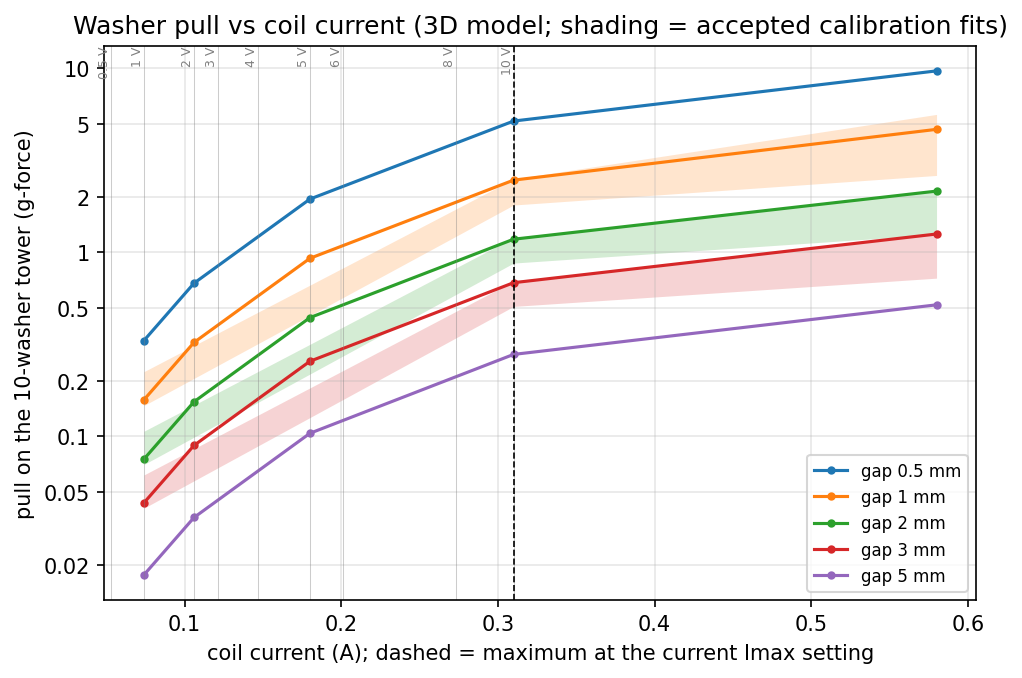
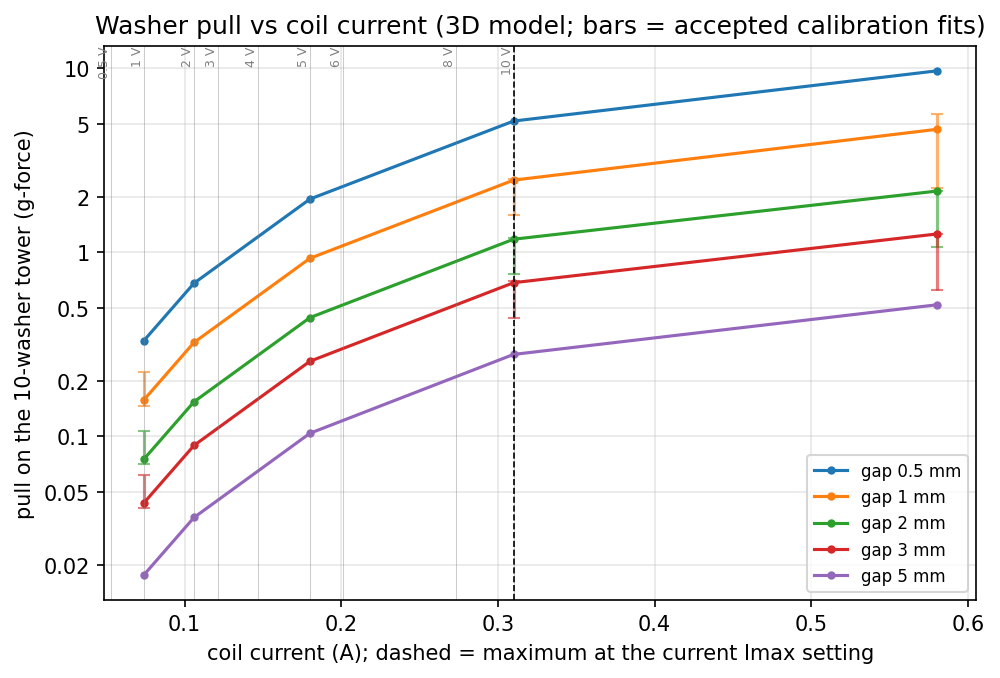
Rename the result files into femm/ and fea3d/ folders, add the 3D calibration band and finish the sweep.

diff --git a/simulations/ledex_femm/plot_results.py b/simulations/ledex_femm/plot_results.py
@@ -4,9 +4,9 @@
     python plot_results.py --show     # also opens the figures
 
 Force and field figures come from the 3D model (washer tower standing across the axis):
-results/fea3d.csv and results/fea3d_sweep.csv (sweep3d.py) and results/axial_B3d.csv.
+results/fea3d/ (force_*_3d.csv from sweep3d.py and field_along_plunger_edge_no_target_3d.csv).
 calibration_fit.png and sensitivity.png stay on the 2D FEMM model: results/calibration/ and
-results/sweeps.csv. results/uncalibrated/ is the first model, kept for the record (not plotted).
+results/femm/femm_sweeps.csv. results/femm/uncalibrated_first_model/ is the first model, kept for the record (not plotted).
 """
 import argparse
 import csv
@@ -50,7 +50,7 @@ def read_csv(path, num=None):
     return rows
 
 
-def load_sweeps(path=os.path.join(RES, "sweeps.csv")):
+def load_sweeps(path=os.path.join(RES, "femm", "femm_sweeps.csv")):
     return read_csv(path, ["target_id_mm", "target_od_mm", "target_t_mm", "protrude_mm", "seat_mm",
                            "stroke_mm", "target_mesh_mm", "gap_mm", "current_A", "target_force_N",
                            "target_force_g", "plunger_force_N"])
@@ -151,12 +151,12 @@ LBL10 = "pull on the 10-washer tower (g-force)"
 def load3d():
     """3D results (washer tower across the axis): {(set, n, gap, stroke, current): force_g}."""
     d = {}
-    old = os.path.join(RES, "fea3d.csv")
+    old = os.path.join(RES, "fea3d", "force_first_runs_3d.csv")
     if os.path.exists(old):
         for r in read_csv(old):
             if r["kind"] == "across":
                 d[("best", int(r["n_washers"]), r["gap_mm"], 0.0, round(r["current_A"], 3))] = r["force_g"]
-    path = os.path.join(RES, "fea3d_sweep.csv")
+    path = os.path.join(RES, "fea3d", "force_sweep_3d.csv")
     if os.path.exists(path):
         for r in read_csv(path):
             s = r["set"] if isinstance(r["set"], str) else "%d" % r["set"]
@@ -204,9 +204,10 @@ def plot_force_vs_current(d):
         a, f = zip(*pts)
         line, = ax.plot(a, f, "o-", ms=3, label="gap {:g} mm".format(g))
         ba = [x for x in (0.074, 0.310, 0.580) if band3d(d, g, x)]
-        if len(ba) > 1:
-            ax.fill_between(ba, [band3d(d, g, x)[0] for x in ba], [band3d(d, g, x)[1] for x in ba],
-                            color=line.get_color(), alpha=0.2, lw=0)
+        if ba:
+            lo, hi = zip(*[band3d(d, g, x) for x in ba])
+            ax.errorbar(ba, [(l + h) / 2 for l, h in zip(lo, hi)], yerr=[[(h - l) / 2 for l, h in zip(lo, hi)]] * 2,
+                        fmt="none", ecolor=line.get_color(), capsize=3, lw=1.5, alpha=0.6)
     for a, v in COMMAND_V.items():
         ax.axvline(a, color="grey", lw=0.5, alpha=0.4)
         ax.text(a, 1.0, "{:g} V".format(v), transform=matplotlib.transforms.blended_transform_factory(ax.transData, ax.transAxes),
@@ -215,7 +216,7 @@ def plot_force_vs_current(d):
     ax.set_yscale("log")
     ax.set_xlabel("coil current (A); dashed = maximum at the current Imax setting")
     ax.set_ylabel(LBL10)
-    ax.set_title("Washer pull vs coil current (3D model; shading = accepted calibration fits)")
+    ax.set_title("Washer pull vs coil current (3D model; bars = accepted calibration fits)")
     ax.grid(True, which="both", alpha=0.3)
     ax.legend(fontsize=8)
     save(fig, "force_vs_current.png")
@@ -273,9 +274,10 @@ def plot_target_band(d):
     fig, axes = plt.subplots(1, 3, figsize=(13, 4.2), sharey=True)
     for ax, g in zip(axes, [1.0, 2.0, 3.0]):
         ba = [x for x in (0.074, 0.310, 0.580) if band3d(d, g, x)]
-        if len(ba) > 1:
-            ax.fill_between(ba, [band3d(d, g, a)[0] for a in ba], [band3d(d, g, a)[1] for a in ba],
-                            color="C0", alpha=0.25, lw=0, label="accepted fits (range)")
+        if ba:
+            lo, hi = zip(*[band3d(d, g, a) for a in ba])
+            ax.errorbar(ba, [(l + h) / 2 for l, h in zip(lo, hi)], yerr=[[(h - l) / 2 for l, h in zip(lo, hi)]] * 2,
+                        fmt="none", ecolor="C0", capsize=4, lw=2, alpha=0.5, label="accepted fits (range)")
         a, f = zip(*sorted((k[4], v) for k, v in d.items() if k[0] == "best" and k[1] == 10 and k[2] == g and k[3] == 0))
         ax.plot(a, f, "o-", color="C0", ms=3, label="best fit")
         ax.set_title("gap {:g} mm".format(g))
@@ -284,12 +286,14 @@ def plot_target_band(d):
         ax.grid(True, which="both", alpha=0.3)
     axes[0].set_ylabel(LBL10)
     axes[0].legend(fontsize=7)
-    fig.suptitle("Washer pull with the calibration uncertainty (3D model, 16 accepted calibration sets)")
+    nsets = len({k[0] for k in d if k[1] == 10 and k[2] == 2.0 and k[4] == 0.31 and k[3] == 0})
+    fig.suptitle("Washer pull with the calibration uncertainty (3D model, best fit + {} other accepted calibration sets)"
+                 .format(nsets - 1))
     save(fig, "target_force_band.png")
 
 
 def plot_axial_profile():
-    path = os.path.join(RES, "axial_B3d.csv")
+    path = os.path.join(RES, "fea3d", "field_along_plunger_edge_no_target_3d.csv")
     if not os.path.exists(path):
         return
     rows = read_csv(path)

diff --git a/simulations/ledex_femm/femm_run.py b/simulations/ledex_femm/femm_run.py
@@ -3,8 +3,8 @@
 Stdlib only, Python 3.6+. One FEMM session per job; jobs run in parallel, each writing its own
 temporary CSV, which is merged afterwards (a crash loses at most one job).
 
-    python femm_run.py sweeps [--only REGEX] [--no-grids]   # results/sweeps.csv + results/fieldgrid_*.csv
-    python femm_run.py summary                              # results/forces.csv, stroke.csv, axial_B.csv
+    python femm_run.py sweeps [--only REGEX] [--no-grids]   # results/femm/femm_sweeps.csv + femm_fieldgrid_*.csv
+    python femm_run.py summary                              # results/femm/femm_forces_5washers_coaxial.csv, femm_stroke_..., femm_field_along_plunger_edge_...
     python femm_run.py maps                                 # FEMM screenshots in figures/femm/
 
 FEMM location: C:\\femm42\\bin\\femm.exe on Windows. Elsewhere set FEMM_WINE (path to the wine
@@ -24,7 +24,7 @@ from concurrent.futures import ThreadPoolExecutor
 
 HERE = os.path.dirname(os.path.abspath(__file__))
 MAIN = os.path.join(HERE, "ledex_washer.lua")
-RES = os.path.join(HERE, "results")
+RES = os.path.join(HERE, "results", "femm")
 FEMM_DIR = os.path.join(HERE, "figures", "femm")
 WINDOWS = sys.platform.startswith("win")
 
@@ -176,7 +176,7 @@ def sweep_jobs(over=None):
 
 
 def run_sweeps(only=".*", grids=True, over=None, outfile=None):
-    outfile = outfile or os.path.join(RES, "sweeps.csv")
+    outfile = outfile or os.path.join(RES, "femm_sweeps.csv")
     jobs = [j for j in sweep_jobs(over) if re.search(only, j[0])]
     with ThreadPoolExecutor(WORKERS) as ex:
         parts = list(ex.map(lambda j: sweep_job(*j), jobs))
@@ -192,12 +192,12 @@ def run_sweeps(only=".*", grids=True, over=None, outfile=None):
         return
     grid_jobs = []
     for a in AMPS_KEY:
-        grid_jobs.append((-1, a, "fieldgrid_notarget_{:.3f}A".format(a)))
-        grid_jobs.append((2, a, "fieldgrid_washers5_gap2mm_{:.3f}A".format(a)))
+        grid_jobs.append((-1, a, "femm_fieldgrid_nowasher_{:.3f}A".format(a)))
+        grid_jobs.append((2, a, "femm_fieldgrid_washers5_coaxial_gap2mm_{:.3f}A".format(a)))
     for a in [0.310, 0.58]:
-        grid_jobs.append((1, a, "fieldgrid_washers5_gap1mm_{:.3f}A".format(a)))
+        grid_jobs.append((1, a, "femm_fieldgrid_washers5_coaxial_gap1mm_{:.3f}A".format(a)))
     for a in [0.074, 0.310, 0.58]:   # ten-washer stack (8 mm), the planned rig target
-        grid_jobs.append((2, a, "fieldgrid_washers10_gap2mm_{:.3f}A".format(a), dict(WT=8.0)))
+        grid_jobs.append((2, a, "femm_fieldgrid_washers10_coaxial_gap2mm_{:.3f}A".format(a), dict(WT=8.0)))
     grid_jobs = [j for j in grid_jobs if re.search(only, j[2])]
     with ThreadPoolExecutor(WORKERS) as ex:
         list(ex.map(lambda j: fieldgrid_job(j[0], j[1], os.path.join(RES, j[2] + ".csv"),
@@ -208,7 +208,7 @@ def run_summary(over=None):
     jobs = [dict(over or {}, MODE=m) for m in ("forces", "profile", "stroke")]
     with ThreadPoolExecutor(3) as ex:
         list(ex.map(lambda g: run_lua(g, g["MODE"]), jobs))
-    print("wrote results/forces.csv, axial_B.csv, stroke.csv")
+    print("wrote results/femm/femm_forces_5washers_coaxial.csv, femm_field_along_plunger_edge_no_target.csv, femm_stroke_5washers_coaxial.csv")
 
 
 def run_maps(over=None):

diff --git a/simulations/ledex_femm/sweep3d.py b/simulations/ledex_femm/sweep3d.py
@@ -3,9 +3,9 @@
 Run with the NGSolve venv:  /tmp/ngenv/bin/python sweep3d.py [group ...]
 Groups: grid (gap and current, 10 washers), stacks (stack height), stroke (plunger held out),
 band (the accepted calibration sets, for the uncertainty band), axial (|B| along the plunger edge).
-Results are appended to results/fea3d_sweep.csv (set,n_washers,gap_mm,stroke_mm,current_A,force_g);
+Results are appended to results/fea3d/force_sweep_3d.csv (set,n_washers,gap_mm,stroke_mm,current_A,force_g);
 set 'best' is the fitted model, others are accepted calibration sets (their FEMM eval number).
-Jobs already in the file (or in the older results/fea3d.csv, best set, no stroke) are skipped.
+Jobs already in the file (or in the older results/fea3d/force_first_runs_3d.csv, best set, no stroke) are skipped.
 """
 import csv
 import os
@@ -17,7 +17,7 @@ import numpy as np
 import fea3d
 
 HERE = os.path.dirname(os.path.abspath(__file__))
-OUT = os.path.join(HERE, "results", "fea3d_sweep.csv")
+OUT = os.path.join(HERE, "results", "fea3d", "force_sweep_3d.csv")
 CURRENTS = [0.074, 0.106, 0.180, 0.310, 0.580]
 GAPS = [0.5, 1.0, 2.0, 3.0, 5.0]
 
@@ -28,7 +28,7 @@ def key(s, n, g, st, i):
 
 def done_jobs():
     d = {}
-    old = os.path.join(HERE, "results", "fea3d.csv")
+    old = os.path.join(HERE, "results", "fea3d", "force_first_runs_3d.csv")
     if os.path.exists(old):
         for r in csv.DictReader(open(old)):
             if r["kind"] == "across":
@@ -105,7 +105,7 @@ def run_group(group, budget_s):
 def axial():
     """|B| along the plunger outer edge (r = RP, plane x = 0) in front of the tip, no target."""
     p = fea3d.fitted()
-    out = os.path.join(HERE, "results", "axial_B3d.csv")
+    out = os.path.join(HERE, "results", "fea3d", "field_along_plunger_edge_no_target_3d.csv")
     zs = np.arange(0.0, 40.01, 0.25)
     rows = []
     for i in CURRENTS:
@@ -130,7 +130,7 @@ if __name__ == "__main__":
     budget = float(next((a for a in sys.argv[1:] if a.replace(".", "").isdigit()), 1300))
     for g in groups:
         if g == "axial":
-            if not os.path.exists(os.path.join(HERE, "results", "axial_B3d.csv")):
+            if not os.path.exists(os.path.join(HERE, "results", "fea3d", "field_along_plunger_edge_no_target_3d.csv")):
                 axial()
         elif not run_group(g, budget):
             break

diff --git a/simulations/ledex_femm/fea3d.py b/simulations/ledex_femm/fea3d.py
@@ -11,7 +11,7 @@ on the target for either orientation:
 Setup (one time):  python3 -m venv /tmp/ngenv && /tmp/ngenv/bin/pip install ngsolve numpy scipy
 Run:               /tmp/ngenv/bin/python fea3d.py check         # axial stack vs FEMM
                    /tmp/ngenv/bin/python sweep3d.py             # the sweeps behind the figures (resumable)
-                   /tmp/ngenv/bin/python fea3d.py across        # first across/axial sweep, results/fea3d.csv
+                   /tmp/ngenv/bin/python fea3d.py across        # first across/axial sweep, results/fea3d/force_first_runs_3d.csv
 
 Method: A-formulation (H(curl), order 2, no gradients), quarter model (the field is tangent to the two
 mirror planes and to the outer box, so A x n = 0 on all of them), Picard iteration on the element-wise
@@ -242,7 +242,7 @@ def run(kind, n, gap, amps, p=None, **kw):
 if __name__ == "__main__":
     mode = sys.argv[1] if len(sys.argv) > 1 else "check"
     if mode == "across":
-        out = os.path.join(HERE, "results", "fea3d.csv")
+        out = os.path.join(HERE, "results", "fea3d", "force_first_runs_3d.csv")
         done = set()
         if os.path.exists(out):
             done = set(tuple(l.split(",")[:4]) for l in open(out).read().splitlines()[1:])

diff --git a/simulations/ledex_femm/plot_target_across.py b/simulations/ledex_femm/plot_target_across.py
@@ -3,7 +3,7 @@
 Run with the NGSolve venv:  /tmp/ngenv/bin/python plot_target_across.py [current_A ...]
 Writes figures/magnetic_fields/: notarget_<I>A.png, target_gap{1,2,3}mm_<I>A.png (ten washers, rim 1/2/3 mm
 from the tip) and overview_magnetic_fields.png (4 rows x 5 currents; only when no currents are given).
-Default currents: 0.074 0.106 0.180 0.310 0.580 A. Solved fields are cached in results/fieldcache3d_*.npz.
+Default currents: 0.074 0.106 0.180 0.310 0.580 A. Solved fields are cached in results/fea3d/field_cut_3d_*.npz.
 """
 import os
 import sys
@@ -87,8 +87,8 @@ def draw(ax, xs, ys, mag, by, bz, a, tgt, gap=2.0):
 
 def solved(p, xs, ys, a, n, gap=2.0):
     """Field in the cut plane for n washers (0 = no target), cached on disk."""
-    path = os.path.join(HERE, "results", "fieldcache3d_{}_{:.3f}A.npz".format(
-        "notarget" if not n else "washers%d" % n + ("" if gap == 2.0 else "_gap%gmm" % gap), a))
+    case = "nowasher" if not n else "washers%d_across_gap%gmm" % (n, gap)
+    path = os.path.join(HERE, "results", "fea3d", "field_cut_3d_{}_{:.3f}A.npz".format(case, a))
     if os.path.exists(path):
         d = np.load(path)
         return d["mag"], d["by"], d["bz"], float(d["fz"]), d["tgt"]

diff --git a/simulations/ledex_femm/README.md b/simulations/ledex_femm/README.md
@@ -40,9 +40,11 @@ measurements.** Check them with one scale measurement once the printed holder an
 | 5 mm | 0.018 g | 0.036 g | 0.10 g | 0.28 g | 0.52 g |
 
 Pull on ten stacked M3 washers (3.2 × 9 × 0.8 mm, mild steel) standing across the axis, plunger
-seated; 1 g = 9.81 mN. Best-fit calibration; the spread over the accepted calibration sets is in
-`figures/plots/target_force_band.png`. (The earlier FEMM five-washer ring gave about 0.96 g at 2 mm
-and 10 V, in `results/sweeps.csv`; it is not the real layout.)
+seated; 1 g = 9.81 mN. Best-fit calibration. Range over the best fit and 13 other accepted calibration sets (two more could
+not be meshed), 1 / 2 / 3 mm: 10 V 1.6-2.5 / 0.76-1.2 / 0.44-0.70 g; 0.58 A 2.2-5.6 / 1.1-2.2 /
+0.62-1.3 g; 1 V 0.15-0.23 / 0.07-0.11 / 0.04-0.06 g. The best fit sits at the top of each range, so the
+true pull is more likely below it than above (`figures/plots/target_force_band.png`). (The earlier FEMM five-washer ring gave about 0.96 g at 2 mm
+and 10 V, in `results/femm/femm_sweeps.csv`; it is not the real layout.)
 
 ![target force band](figures/plots/target_force_band.png)
 
@@ -77,7 +79,7 @@ and 10 V, in `results/sweeps.csv`; it is not the real layout.)
 - Uncertainty band: 134 sets fit within 1.2× the best error (`accepted_sets.csv`; seat gap
   0.52–1.0 mm, clearance 0.68–0.8 mm, steel scale 0.82–1.05, plates 1.5–2.8 mm, wall 0.8–1.6 mm,
   cone 30–42°). The 3D target force of the ten-washer tower was recomputed for 16 well-spread ones
-  (`sweep3d.py band`, rows with a numeric `set` in `results/fea3d_sweep.csv`) and gives the bars and
+  (`sweep3d.py band`, rows with a numeric `set` in `results/fea3d/force_sweep_3d.csv`) and gives the bars and
   shading in `force_vs_gap.png`, `force_vs_current.png` and `target_force_band.png`.
 
 ![calibration fit](figures/plots/calibration_fit.png)
@@ -140,7 +142,7 @@ saturation at 0.58 A, plus the calibration extrapolation (±40 %).
   the calibrated values.
 - `femm_run.py`: runs FEMM in parallel on Windows or on a Mac under Wine (Python 3.6+, standard
   library only). `python3 femm_run.py sweeps` (all sweeps and field grids; `--only <regex>`,
-  `--no-grids`), `summary` (`results/forces.csv`, `axial_B.csv` (field along the plunger outer edge r = 3.91 mm, not the slotted axis), `stroke.csv`), `maps` (FEMM
+  `--no-grids`), `summary` (`results/femm/femm_forces_5washers_coaxial.csv`, `femm_field_along_plunger_edge_no_target.csv` (along the plunger outer edge r = 3.91 mm, not the slotted axis), `femm_stroke_5washers_coaxial.csv`), `maps` (FEMM
   screenshots in `figures/femm/`, needs Pillow for PNG). `FEMM_WORKERS` sets the number of
   parallel FEMM processes.
 - `calibrate.py`: the datasheet fit (`screen`, `refine`, `explore`, `best`, `band`, or `all`);
@@ -148,23 +150,23 @@ saturation at 0.58 A, plus the calibration extrapolation (±40 %).
   vs datasheet per point, `best_params.json`, `accepted_sets.csv`, `target_band.csv`).
 - `fea3d.py`: the 3D model (see above); `python fea3d.py check` compares a coaxial stack with FEMM.
 - `sweep3d.py`: resumable 3D sweeps (`grid`, `stacks`, `stroke`, `band`, `axial`) written to
-  `results/fea3d_sweep.csv` (`set`, `n_washers`, `gap_mm`, `stroke_mm`, `current_A`, `force_g`; `set`
-  = `best` or the FEMM eval number of an accepted calibration set) and `results/axial_B3d.csv`.
-  Older `results/fea3d.csv` holds the first across-axis runs (best fit only).
+  `results/fea3d/force_sweep_3d.csv` (`set`, `n_washers`, `gap_mm`, `stroke_mm`, `current_A`, `force_g`; `set`
+  = `best` or the FEMM eval number of an accepted calibration set) and `results/fea3d/field_along_plunger_edge_no_target_3d.csv`.
+  Older `results/fea3d/force_first_runs_3d.csv` holds the first across-axis and coaxial runs (best fit only).
 - `plot_results.py`: makes `figures/plots/*.png` (numpy + matplotlib). The force, stroke, target and
   profile figures read the 3D CSVs; `calibration_fit.png` and `sensitivity.png` read the FEMM CSVs.
 - `plot_target_across.py`: makes `figures/magnetic_fields/*.png` from the 3D model (needs the
-  NGSolve venv; solved fields cached in `results/fieldcache3d_*.npz`).
-- `results/sweeps.csv`: one row per FEMM solve (coaxial layouts, used for the calibration and sensitivity figures). Columns: `case`, `target`,
+  NGSolve venv; solved fields cached in `results/fea3d/field_cut_3d_<nowasher|washers10_across_gap<G>mm>_<I>A.npz`).
+- `results/femm/femm_sweeps.csv`: one row per FEMM solve (coaxial layouts, used for the calibration and sensitivity figures). Columns: `case`, `target`,
   `target_id_mm`, `target_od_mm`, `target_t_mm` (inner/outer diameter, thickness; id 0 = solid
   disc), `protrude_mm`, `seat_mm`, `stroke_mm` (plunger held out from its seat), `bscale`,
   `tpl_mm`, `wall_mm`, `steel`, `target_mesh_mm`, `gap_mm` (tip to target face), `current_A`,
   `target_force_N`, `target_force_g`, `plunger_force_N` (axial force on the plunger, toward the
   seat), `clr_mm`, `conea_deg`. Cases: `baseline_gap*` (five washers, 11 gaps × 12 currents),
   `target_*` (other targets), `stroke_*`, `sens_*`.
-- `results/fieldgrid_<target>_<current>A.csv`: FEMM field grids (`r_mm, z_mm, Br_T, Bz_T, Bmag_T` on a
+- `results/femm/femm_fieldgrid_<nowasher|washers5_coaxial_gap<G>mm|washers10_coaxial_gap2mm>_<I>A.csv`: FEMM field grids (`r_mm, z_mm, Br_T, Bz_T, Bmag_T` on a
   0.25 mm grid) for the coaxial layouts; no longer plotted (the field maps now come from the 3D model).
-- `results/uncalibrated/`: the first model (9.5 mm protrusion, guessed internals), kept for
+- `results/femm/uncalibrated_first_model/` (same file names as above): the first model (9.5 mm protrusion, guessed internals), kept for
   comparison.
 - `figures/magnetic_fields/`: 3D field maps with a mT colour scale: `notarget_<I>A.png`,
   `target_gap{1,2,3}mm_<I>A.png` (ten washers across the axis) and `overview_magnetic_fields.png`
